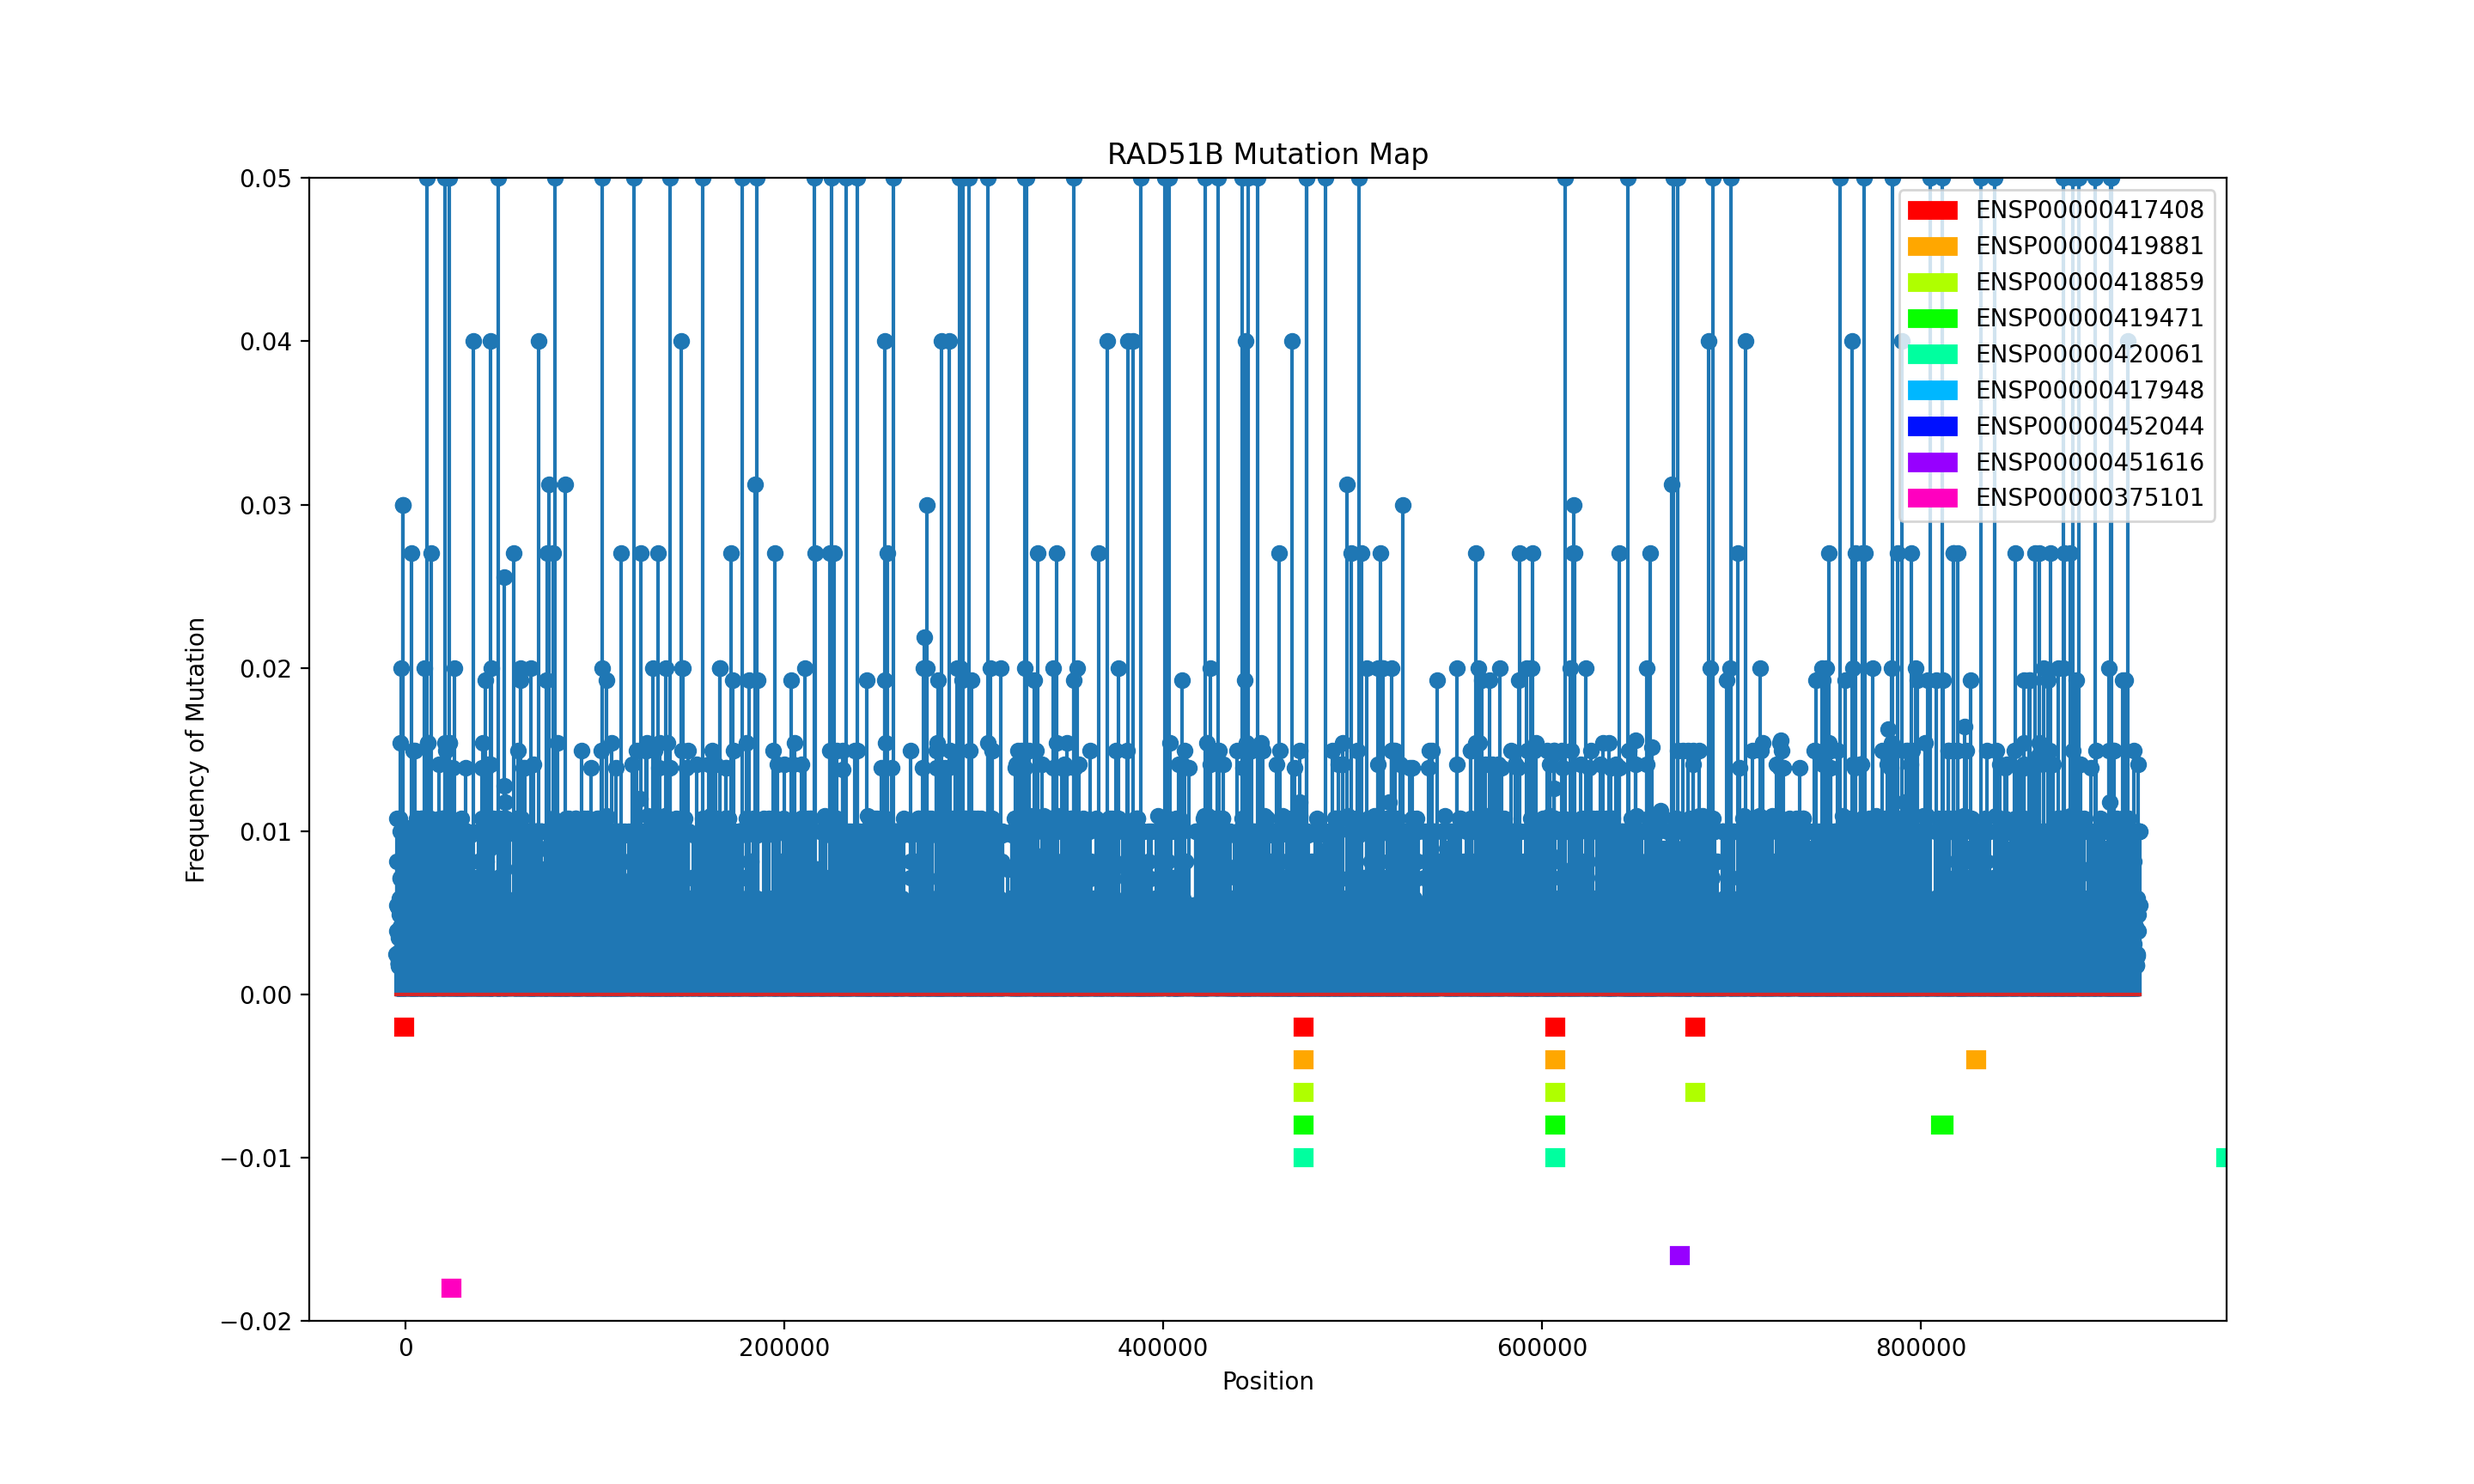
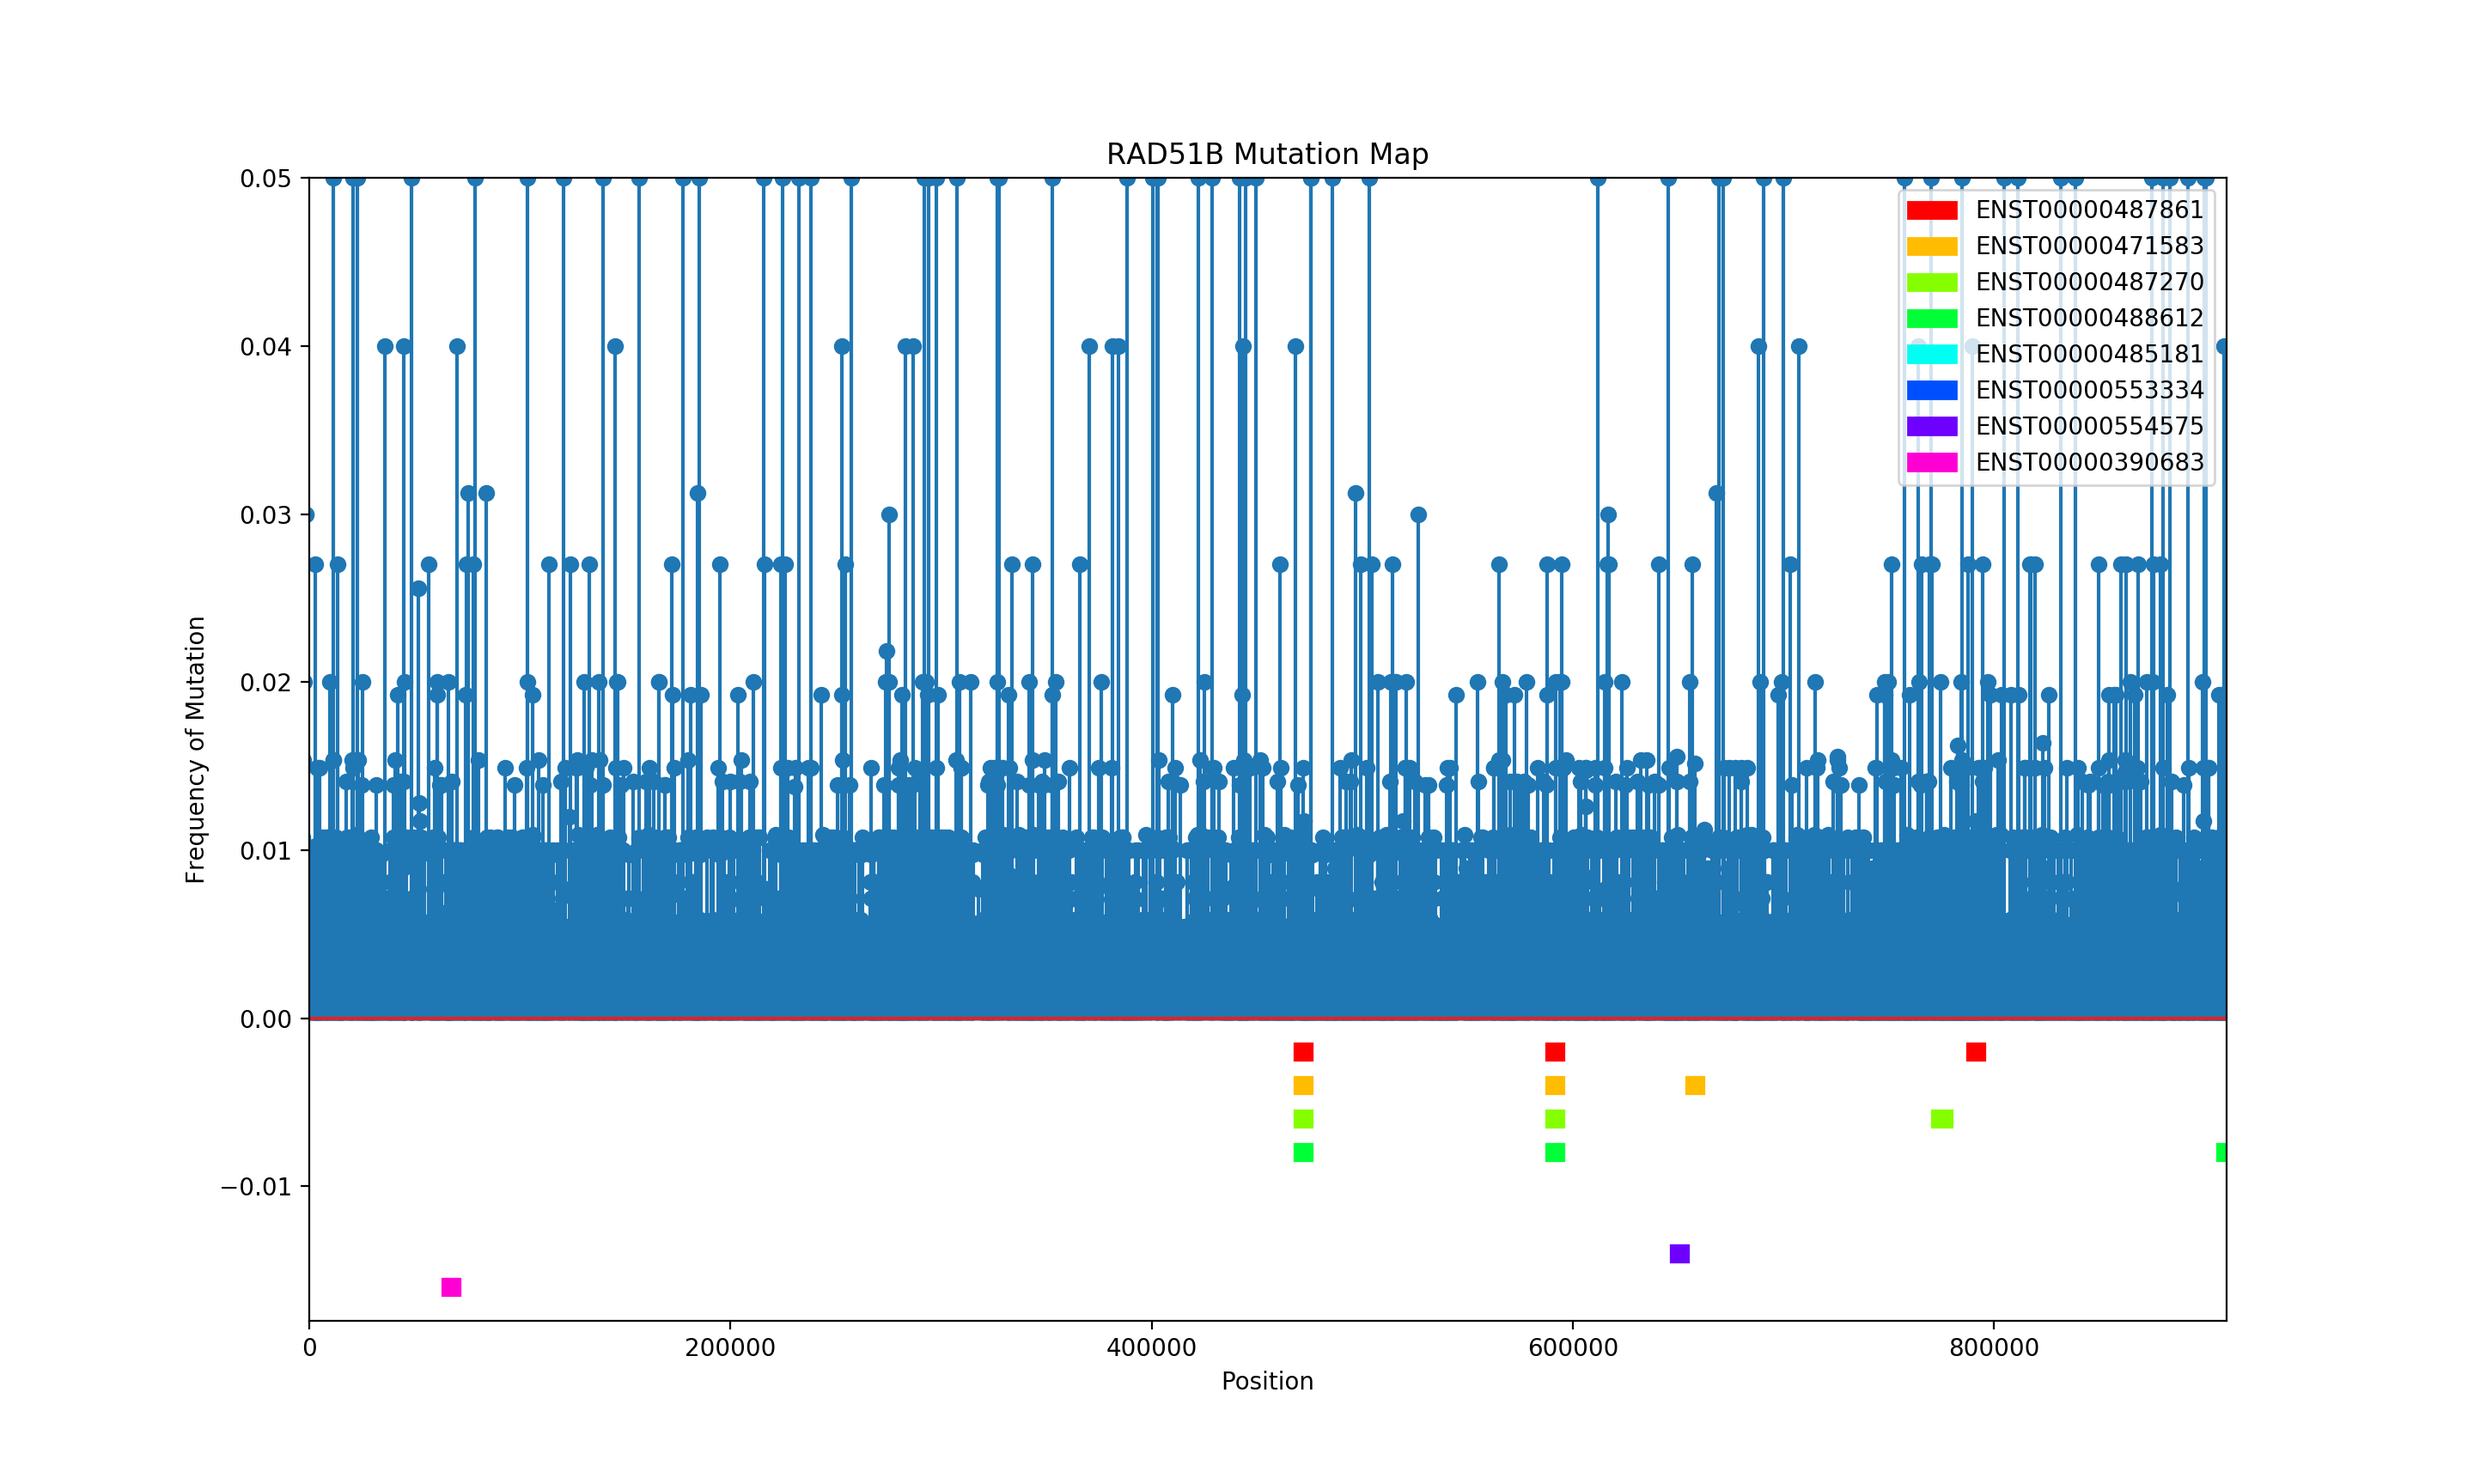
file restructuring and bugs resolved

diff --git a/lollipopplotFiles/buildPlot.py b/lollipopplotFiles/buildPlot.py
@@ -6,10 +6,10 @@ import urllib
 import icgc
 import matplotlib.patches as mpatches
 import matplotlib.pyplot as plt
-
-import initalLollipopPlot.getRangesFromUpdatedEnsembl as getRangesFromUpdatedEnsembl
 import pandas as pd
 from pyliftover import LiftOver
+
+import getRangesFromUpdatedEnsembl as getRangesFromUpdatedEnsembl
 
 lo = LiftOver('hg19', 'hg38')
 
@@ -19,7 +19,7 @@ def lift(coord):
 
 
 def get_cmap(n, name='hsv'):
-    '''Returns a function that maps each index in 0, 1, ..., n-1 to a distinct 
+    '''Returns a function that maps each index in 0, 1, ..., n-1 to a distinct
     RGB color; the keyword argument name must be a standard mpl colormap name.'''
     return plt.cm.get_cmap(name, n)
 
@@ -35,8 +35,8 @@ def buildPlot():
     to_nearest_hunderd = 101 - (numberOfSeqs % 100)
     placeInGenome = []
     numberOfOccurences = []
-    # numberOfSeqs+to_nearest_hunderd
-    for i in range(0, 300, 100):
+    #
+    for i in range(0, numberOfSeqs+to_nearest_hunderd, 100):
         try:
             json_file = json.load(urllib.request.urlopen(
                 f"https://dcc.icgc.org/api/v1/genes/ENSG00000182185/mutations?from={i}&size=100"))
@@ -66,13 +66,20 @@ def addTranscriptstoPlot():
     counter = 1
     legend = []
     for transcript in ranges:
+        print(transcript)
         for exon in ranges[transcript]:
-            print(exon)
+            print((exon[0]/(end-start), exon[1]/(end-start)))
             plt.axhline(-counter/500, linewidth=8, xmin=(
                 exon[0]/(end-start)), xmax=(exon[1]/(end-start)), color=cmap(counter-1))
         legend.append(mpatches.Patch(color=cmap(counter-1), label=transcript))
         counter += 1
     axes = plt.gca()
-
+    axes.set_xlim([0, end-start])
     axes.set_ylim([-counter/500, .05])
     plt.legend(handles=legend,)
+
+
+if __name__ == "__main__":
+    buildPlot()
+    addTranscriptstoPlot()
+    plt.show()

diff --git a/lollipopplotFiles/getRangesFromUpdatedEnsembl.py b/lollipopplotFiles/getRangesFromUpdatedEnsembl.py
@@ -14,10 +14,11 @@ end = json['end']
 def getTranscriptsAndRanges():
     transcriptAndRange = {}
     for transcript in json['Transcript']:
-        if 'Translation' not in transcript:
+        if transcript['biotype'] != 'protein_coding':
             continue
-        transcriptAndRange[transcript['Translation']['id']] = []
+        transcriptAndRange[transcript['id']] = []
         for exon in transcript['Exon']:
-            transcriptAndRange[transcript['Translation']
+            transcriptAndRange[transcript
                                ['id']].append((exon['start']-start, exon['end']-start))
+    print(transcriptAndRange)
     return transcriptAndRange
